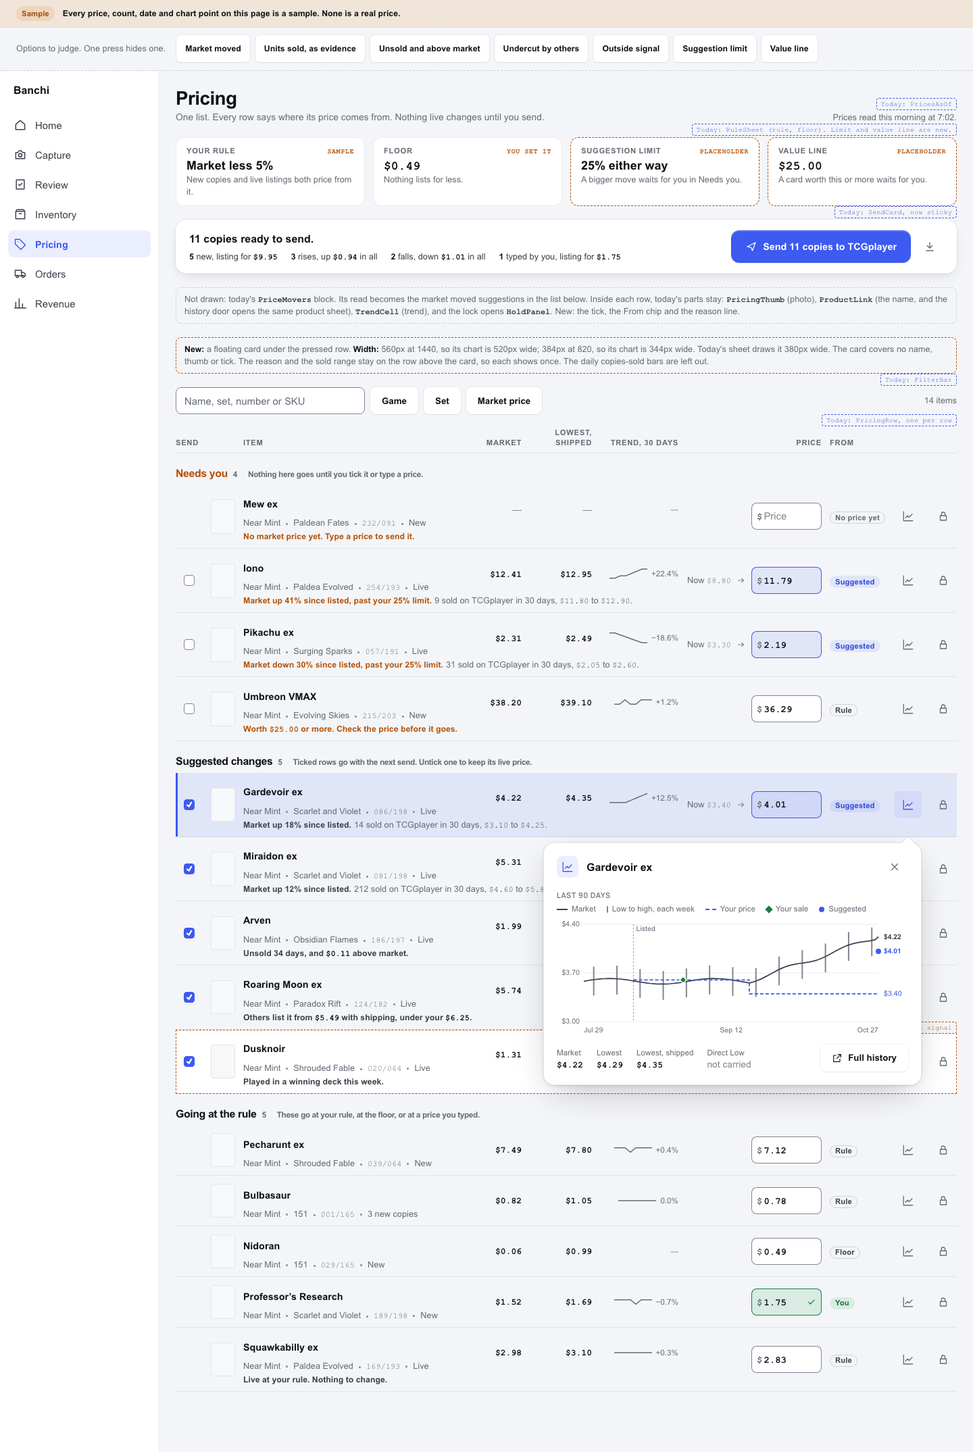
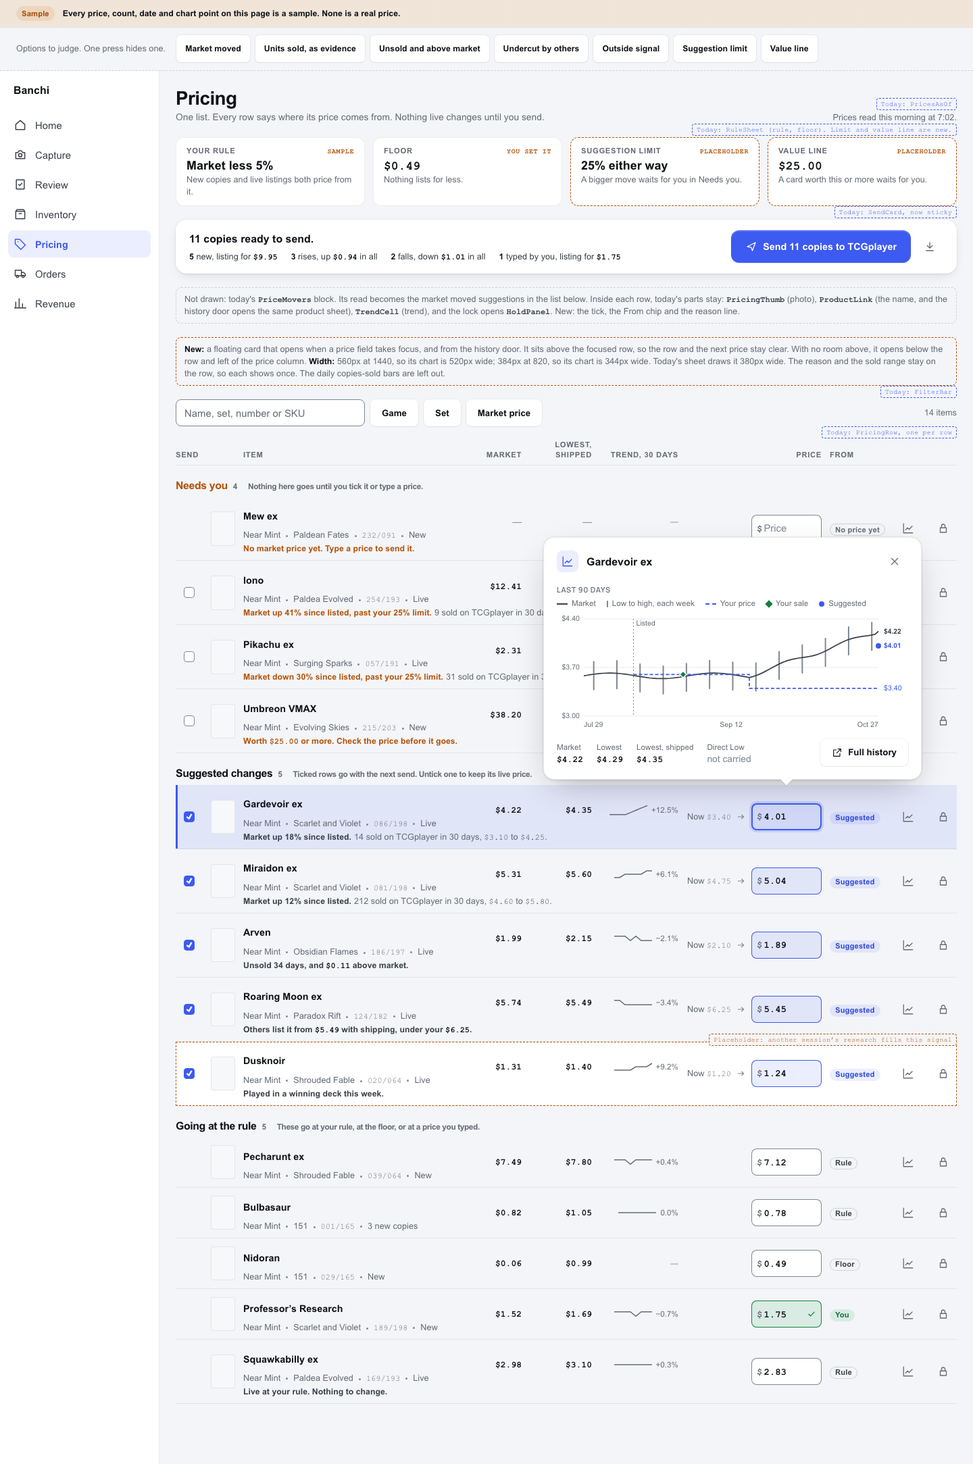
design: the floating history card opens on price focus
Default: Gardevoir ex's price field has focus, and the card sits above the
row, clear of the row and the next price, at 1440 and 820. state=top draws
the no-room case: the card opens below, left of the price column. fb=next
draws the other fallback. The notes name what the card covers, the focus
rules, and the Tab question for the owner.

Done: mockup, notes and six renders match the focus ruling; docs audit green.
Next: the owner rules on what Tab reaches between price fields (notes item 8).

diff --git a/docs/design/pricing-suggest/history-float.html b/docs/design/pricing-suggest/history-float.html
@@ -13,6 +13,9 @@
   /* Hash keys, joined by &:
        dark | light | t=dark | t=light   theme (default: prefers-color-scheme)
        f=1440 | f=820                    one frame, edge to edge (default: both, stacked)
+       state=top                         the focused row is the list's second row, with no room above
+                                         (default: Gardevoir ex's price field has focus, mid-list)
+       fb=next                           with no room above, the card opens under the next row instead
        hide=moved,unsold,...             options the owner culled (see the cull strip)
        notes=off                         hides the "Today:" component tags */
   const HASH = new Map(location.hash.slice(1).split('&').filter(Boolean).map((p) => {
@@ -173,7 +176,9 @@
   .field input { all: unset; width: 100%; min-width: 0; color: var(--bn-money); }
   .field input::placeholder { color: var(--bn-ink-4); font-family: var(--bn-font-ui); font-weight: 500; }
   .field svg { flex: none; width: 14px; height: 14px; color: var(--bn-ok); display: none; }
-  .field:focus-within { box-shadow: inset 0 0 0 2px var(--bn-line-focus); }
+  /* The kit's input focus look: an accent edge and a halo. It outranks the source tones below. */
+  .frame .row .field:focus-within, .frame .row .field.is-focus {
+    box-shadow: inset 0 0 0 2px var(--bn-accent), 0 0 0 3px var(--bn-accent-tint-2); }
   .row[data-src='Suggested'] .field { box-shadow: inset 0 0 0 1px var(--bn-accent); background: var(--bn-accent-tint); }
   /* A typed price: its own tone, and the field carries today's "your price" check. */
   .row[data-src='You'] .field { box-shadow: inset 0 0 0 1px var(--bn-ok); background: var(--bn-ok-tint); }
@@ -266,6 +271,8 @@
   .fl-caret { position: absolute; top: -6px; width: 12px; height: 12px; rotate: 45deg; background: var(--bn-surface);
               box-shadow: -1px -1px 0 var(--bn-line); }
   .fl[data-side='above'] .fl-caret { top: auto; bottom: -6px; box-shadow: 1px 1px 0 var(--bn-line); }
+  .fl-caret[hidden] { display: none; }
+  .fl-none { display: flex; align-items: center; color: var(--bn-ink-3); }
   .fl-head { display: flex; align-items: center; gap: var(--bn-3); }
   .fl-head .hx-name { flex: 1; font-family: var(--bn-font-display); font-size: var(--bn-fs-h3); font-weight: 800; }
   .fl-foot { display: flex; align-items: flex-end; justify-content: space-between; gap: var(--bn-4); }
@@ -533,35 +540,50 @@
       : 3.58 + (4.22 - 3.58) * ((d - 50) / 39) + (d === 89 ? 0 : 0.03 * Math.sin(d / 3)))
     const bars = [0, 1, 0, 0, 2, 0, 1, 0, 0, 1, 0, 3, 0, 1, 0, 0, 1, 0, 1, 0, 0, 1, 0, 0, 1, 0, 0, 0, 1, 0]
     return { m, bars, listed: 15, sale: [30, 3.60], ask: [[15, 3.60], [50, 3.40]], now: 3.40, sug: 4.01,
+             lo: 3.0, hi: 4.4, sp: [0.18, 0.22], facts: [4.22, 4.29, 4.35],
              dates: ['Jul 29', 'Sep 12', 'Oct 27'], sold: [bars.reduce((a, b) => a + b, 0), 3.10, 4.25] }
   })()
 
-  function hxChart(W, H) {
-    const GL = 40, GB = 18, w = W - GL - 44, h = H - GB - 8, lo = 3.0, hi = 4.4
+  /* Any other row's history: a sample of the same shape, from the row's own prices. Flat, then a move to
+     today's market. A live row was listed at its live price. A row with no market price has no history. */
+  function hxFor(r) {
+    if (r.name === 'Gardevoir ex') return HX
+    if (r.market === null) return null
+    const end = r.market, live = r.kind === 'live', start = live ? r.now : end, k = end / 4
+    const m = Array.from({ length: 90 }, (_, d) => d < 50 ? start + 0.01 * k * Math.sin(d / 5)
+      : start + (end - start) * ((d - 50) / 39) + (d === 89 ? 0 : 0.0075 * k * Math.sin(d / 3)))
+    const sp = [0.045 * end, 0.055 * end]
+    const vals = [...m.map((v) => v + sp[0]), ...m.map((v) => v - sp[1]), r.price, start]
+    return { m, sp, listed: live ? 15 : null, sale: live ? [30, start] : null, ask: live ? [[15, start], [50, start]] : null,
+             now: live ? r.now : null, sug: r.price, dates: HX.dates,
+             lo: Math.floor(Math.min(...vals) * 10) / 10, hi: Math.ceil(Math.max(...vals) * 10) / 10,
+             facts: [end, Math.round((end + r.low) * 50) / 100, r.low] }
+  }
+
+  function hxChart(W, H, D = HX) {
+    const GL = 40, GB = 18, w = W - GL - 44, h = H - GB - 8, lo = D.lo, hi = D.hi
     const x = (d) => GL + (d / 89) * w
     const y = (p) => 8 + ((hi - p) / (hi - lo)) * h
     const ticks = [hi, (hi + lo) / 2, lo].map((p) =>
       `<line class="hx-guide" x1="${GL}" x2="${GL + w}" y1="${y(p)}" y2="${y(p)}"/><text x="${GL - 6}" y="${y(p) + 3}" text-anchor="end">$${p.toFixed(2)}</text>`).join('')
-    const dates = HX.dates.map((t, i) => `<text x="${x(i * 44.5)}" y="${H - 2}" text-anchor="${['start', 'middle', 'end'][i]}">${t}</text>`).join('')
+    const dates = D.dates.map((t, i) => `<text x="${x(i * 44.5)}" y="${H - 2}" text-anchor="${['start', 'middle', 'end'][i]}">${t}</text>`).join('')
     let spread = ''
-    for (let d = 3; d < 90; d += 7) spread += `<line class="hx-spread" x1="${x(d)}" x2="${x(d)}" y1="${y(HX.m[d] + 0.18)}" y2="${y(HX.m[d] - 0.22)}"/>`
-    const market = HX.m.map((p, d) => `${x(d).toFixed(1)},${y(p).toFixed(1)}`).join(' ')
-    const [a0, a1] = HX.ask
-    const ask = `M${x(a0[0])} ${y(a0[1])} H${x(a1[0])} V${y(a1[1])} H${x(89)}`
-    const [sd, sp] = HX.sale
+    for (let d = 3; d < 90; d += 7) spread += `<line class="hx-spread" x1="${x(d)}" x2="${x(d)}" y1="${y(D.m[d] + D.sp[0])}" y2="${y(D.m[d] - D.sp[1])}"/>`
+    const market = D.m.map((p, d) => `${x(d).toFixed(1)},${y(p).toFixed(1)}`).join(' ')
     const dia = (cx, cy, r) => `M${cx} ${cy - r} L${cx + r} ${cy} L${cx} ${cy + r} L${cx - r} ${cy} Z`
+    const end = D.m[89], sugY = Math.abs(y(D.sug) - y(end)) < 11 ? y(end) + (D.sug < end ? 11 : -11) : y(D.sug)
     return `<svg class="hx-chart" width="${W}" height="${H}" viewBox="0 0 ${W} ${H}" role="img" aria-label="Market price over 90 days, with your prices, your sale and the suggestion">
       ${ticks}${dates}
-      <line class="hx-listed" x1="${x(HX.listed)}" x2="${x(HX.listed)}" y1="8" y2="${8 + h}"/>
-      <text x="${x(HX.listed) + 4}" y="18">Listed</text>
+      ${D.listed === null ? '' : `<line class="hx-listed" x1="${x(D.listed)}" x2="${x(D.listed)}" y1="8" y2="${8 + h}"/>
+      <text x="${x(D.listed) + 4}" y="18">Listed</text>`}
       ${spread}
       <polyline class="hx-market" points="${market}"/>
-      <path class="hx-asking" d="${ask}"/>
-      <path class="hx-sale" d="${dia(x(sd), y(sp), 5)}"/>
-      <circle class="hx-suggest" cx="${x(89)}" cy="${y(HX.sug)}" r="5"/>
-      <text class="hx-end" x="${x(89) + 8}" y="${y(HX.m[89]) + 3}">$${HX.m[89].toFixed(2)}</text>
-      <text class="hx-suggest-label" x="${x(89) + 8}" y="${y(HX.sug) + 3}">$${HX.sug.toFixed(2)}</text>
-      <text class="hx-ask-label" x="${x(89) + 8}" y="${y(HX.now) + 3}">$${HX.now.toFixed(2)}</text>
+      ${D.ask ? `<path class="hx-asking" d="M${x(D.ask[0][0])} ${y(D.ask[0][1])} H${x(D.ask[1][0])} V${y(D.ask[1][1])} H${x(89)}"/>` : ''}
+      ${D.sale ? `<path class="hx-sale" d="${dia(x(D.sale[0]), y(D.sale[1]), 5)}"/>` : ''}
+      <circle class="hx-suggest" cx="${x(89)}" cy="${y(D.sug)}" r="5"/>
+      <text class="hx-end" x="${x(89) + 8}" y="${y(end) + 3}">$${end.toFixed(2)}</text>
+      <text class="hx-suggest-label" x="${x(89) + 8}" y="${sugY + 3}">$${D.sug.toFixed(2)}</text>
+      ${D.now === null ? '' : `<text class="hx-ask-label" x="${x(89) + 8}" y="${y(D.now) + 3}">$${D.now.toFixed(2)}</text>`}
     </svg>`
   }
 
@@ -569,8 +591,8 @@
     <span><i class="hx-sw ask"></i>Your price</span><span><i class="hx-sw sale"></i>Your sale</span><span><i class="hx-sw sug"></i>Suggested</span></p>`
   const hxSold = () => `<p class="hx-sold">${HX.sold[0]} sold in 30 days, ${$(HX.sold[1])} to ${$(HX.sold[2])}.</p>`
   const hxWhy = () => `<p class="hx-why">Market up 18% since listed. Now ${$(HX.now)}, suggested ${$(HX.sug)}.</p>`
-  const hxFacts = () => `<dl class="hx-facts"><div><dt>Market</dt><dd>${$(4.22)}</dd></div><div><dt>Lowest</dt><dd>${$(4.29)}</dd></div>
-    <div><dt>Lowest, shipped</dt><dd>${$(4.35)}</dd></div><div><dt>Direct Low</dt><dd class="dash">not carried</dd></div></dl>`
+  const hxFacts = (F = HX.facts) => `<dl class="hx-facts"><div><dt>Market</dt><dd>${$(F[0])}</dd></div><div><dt>Lowest</dt><dd>${$(F[1])}</dd></div>
+    <div><dt>Lowest, shipped</dt><dd>${$(F[2])}</dd></div><div><dt>Direct Low</dt><dd class="dash">not carried</dd></div></dl>`
   function hxBars(W) {
     const n = 30, H = 36, slot = W / n
     const v = HX.bars
@@ -607,50 +629,99 @@
     </aside>`)
   }
 
-  /* Option 4: the history door opens a card over the list, under the pressed row. No scrim; the list stays pressable. */
+  /* Option 4, as ruled: a card floats over the list, with no scrim. A price field taking focus opens it for that
+     row, and so does the row's history door. It sits above the row, over the rows before it. With no room above,
+     it opens below the row and left of the price column (fb=next: below the next row instead). */
   function decorate(f, w) {
-    const narrow = w === '820'
-    f.querySelector('.gone-note').insertAdjacentHTML('afterend', `<p class="press-note"><b>New:</b> a floating card under the pressed row.
+    const narrow = w === '820', GAP = 8, W = narrow ? 384 : 560
+    f.querySelector('.gone-note').insertAdjacentHTML('afterend', `<p class="press-note"><b>New:</b> a floating card that opens when a price field takes focus, and from the history door.
+      It sits above the focused row, so the row and the next price stay clear. With no room above, it opens below the row and left of the price column.
       <b>Width:</b> 560px at 1440, so its chart is 520px wide; 384px at 820, so its chart is 344px wide. Today's sheet draws it 380px wide.
-      The card covers no name, thumb or tick. The reason and the sold range stay on the row above the card, so each shows once. The daily copies-sold bars are left out.</p>`)
-    f.insertAdjacentHTML('beforeend', `<section class="fl mark" role="dialog" aria-label="Price history for Gardevoir ex" tabindex="-1" data-fl hidden>
+      The reason and the sold range stay on the row, so each shows once. The daily copies-sold bars are left out.</p>`)
+    f.insertAdjacentHTML('beforeend', `<section class="fl mark" role="dialog" tabindex="-1" data-fl hidden>
       <span class="fl-caret" aria-hidden="true"></span>
-      <header class="fl-head"><span class="bn-overlay-icon">${svg('history', 18)}</span><p class="hx-name">Gardevoir ex</p>
+      <header class="fl-head"><span class="bn-overlay-icon">${svg('history', 18)}</span><p class="hx-name" data-fl-name></p>
         <button class="bn-icon-btn iconb" type="button" aria-label="Close" data-fl-close>${svg('close', 18)}</button></header>
-      <div class="hx-block"><h3 class="hx-h">Last 90 days</h3>${hxLegend()}${hxChart(narrow ? 344 : 520, 170)}</div>
-      <div class="fl-foot">${hxFacts()}<button class="bn-btn" type="button">${svg('external', 16)}Full history</button></div>
+      <div class="hx-block" data-fl-chart></div>
+      <div class="fl-foot"><span data-fl-facts></span><button class="bn-btn" type="button">${svg('external', 16)}Full history</button></div>
     </section>`)
-    const card = f.querySelector('[data-fl]')
+    const card = f.querySelector('[data-fl]'), caret = card.querySelector('.fl-caret')
+    const rowsOf = () => [...f.querySelectorAll('.row')].filter((r) => r.offsetParent)
     const doorOf = (row) => row.querySelector('[aria-label^="Price history"]')
-    let open = null
-    /* Anchored under the row, or above it when the viewport has no room below. Right edge on the row's history door.
-       Focus moves into the card on open, and back to the door on close. */
-    const place = (row) => {
-      const was = open
-      if (was) { delete was.dataset.picked; delete doorOf(was).dataset.on }
-      open = row
-      card.hidden = !row
-      if (!row) { if (was) doorOf(was).focus({ preventScroll: true }); return }
-      row.dataset.picked = ''
-      const door = doorOf(row)
-      door.dataset.on = ''
-      const fr = f.getBoundingClientRect(), rr = row.getBoundingClientRect(), dr = door.getBoundingClientRect()
-      const below = rr.bottom + 8 + card.offsetHeight <= innerHeight
-      card.dataset.side = below ? 'below' : 'above'
-      card.style.top = `${(below ? rr.bottom + 8 : rr.top - 8 - card.offsetHeight) - fr.top}px`
-      card.style.left = `${dr.right - card.offsetWidth - fr.left}px`
-      card.querySelector('.fl-caret').style.left = `${card.offsetWidth - dr.width / 2 - 6}px`
-      card.focus({ preventScroll: true })
+    const fieldOf = (row) => row.querySelector('.field')
+    const dataOf = (row) => ROWS.find((r) => r.name === row.querySelector('.name').textContent)
+    const fill = (row, width) => {
+      const r = dataOf(row), D = hxFor(r)
+      card.style.width = `${width}px`
+      card.setAttribute('aria-label', `Price history for ${r.name}`)
+      card.querySelector('[data-fl-name]').textContent = r.name
+      card.querySelector('[data-fl-chart]').innerHTML = `<h3 class="hx-h">Last 90 days</h3>` + (D
+        ? hxLegend() + hxChart(width - 40, 170, D)
+        : `<p class="fl-none" style="height:${170 + 24}px">No price history yet. It starts with the first market price.</p>`)
+      card.querySelector('[data-fl-facts]').innerHTML = D ? hxFacts(D.facts) : ''
     }
-    const first = [...f.querySelectorAll('.row')].find((r) => r.querySelector('.name').textContent === 'Gardevoir ex')
-    document.fonts.ready.then(() => place(first))
-    addEventListener('resize', () => open && place(open))
-    f.addEventListener('click', (e) => {
-      const door = e.target.closest('[aria-label^="Price history"]')
-      if (door) return place(door.closest('.row'))
-      if (e.target.closest('[data-fl-close]') || !e.target.closest('[data-fl]')) place(null)
+    let open = null, mode = null
+    const place = (row, how = mode) => {
+      const was = open
+      if (was) { delete was.dataset.picked; delete doorOf(was).dataset.on; fieldOf(was).classList.remove('is-focus') }
+      open = row; mode = row ? how : null
+      card.hidden = !row
+      if (!row) return
+      row.dataset.picked = ''
+      if (how === 'door') doorOf(row).dataset.on = ''
+      else fieldOf(row).classList.add('is-focus')
+      const fr = f.getBoundingClientRect(), rr = row.getBoundingClientRect(), dr = doorOf(row).getBoundingClientRect()
+      const pr = row.querySelector('.price').getBoundingClientRect(), fd = fieldOf(row).getBoundingClientRect()
+      /* Room above ends at the list's column captions, or under the sticky send bar once that bar has stuck. */
+      const ceiling = Math.max(f.querySelector('.caption').getBoundingClientRect().bottom, f.querySelector('.send').getBoundingClientRect().bottom)
+      fill(row, W)
+      let side = rr.top - GAP - card.offsetHeight >= ceiling ? 'above' : 'below', top, left, width = W
+      if (side === 'above') { top = rr.top - GAP - card.offsetHeight; left = dr.right - W }
+      else if (HASH.get('fb') === 'next') {
+        const next = rowsOf()[rowsOf().indexOf(row) + 1] || row
+        top = next.getBoundingClientRect().bottom + GAP; left = dr.right - W
+      } else {
+        /* Below, and clear of the price column. Where that leaves less than the card's width, the card starts
+           after the tick column and narrows. */
+        const tick = row.querySelector('.tick, :scope > span:first-child').getBoundingClientRect()
+        left = Math.max(pr.left - GAP - W, tick.right + GAP)
+        width = pr.left - GAP - left
+        if (width !== W) fill(row, width)
+        top = rr.bottom + GAP
+      }
+      card.dataset.side = side
+      card.style.top = `${top - fr.top}px`
+      card.style.left = `${left - fr.left}px`
+      /* The caret points at what opened the card, when that sits over the card's span. */
+      const at = how === 'door' ? dr.left + dr.width / 2 : fd.left + fd.width / 2
+      caret.hidden = at < left + 16 || at > left + width - 16
+      caret.style.left = `${at - left - 6}px`
+      if (how === 'door') card.focus({ preventScroll: true })
+    }
+    /* Closing: focus goes back to the door the card was opened from, or stays in the field. */
+    const close = () => {
+      const was = open, how = mode
+      place(null)
+      if (was && how === 'door') doorOf(was).focus({ preventScroll: true })
+    }
+    const startName = HASH.get('state') === 'top' ? 'Iono' : 'Gardevoir ex'
+    document.fonts.ready.then(() => place(rowsOf().find((r) => r.querySelector('.name').textContent === startName), 'focus'))
+    f.replace = () => { if (open) open.offsetParent ? place(open) : place(null) }
+    addEventListener('resize', f.replace)
+    f.addEventListener('focusin', (e) => {
+      if (e.target.closest('.field')) place(e.target.closest('.row'), 'focus')
     })
-    addEventListener('keydown', (e) => { if (e.key === 'Escape' && open) place(null) })
+    f.addEventListener('focusout', (e) => {
+      const to = e.relatedTarget
+      if (mode === 'focus' && !(to && (to.closest('.field') || to.closest('[data-fl]')))) place(null)
+    })
+    f.addEventListener('click', (e) => {
+      const door = e.target.closest('.row [aria-label^="Price history"]')
+      if (door) return place(door.closest('.row'), 'door')
+      if (e.target.closest('[data-fl-close]')) return close()
+      if (open && !e.target.closest('[data-fl]') && !e.target.closest('.field')) place(null)
+    })
+    f.addEventListener('keydown', (e) => { if (e.key === 'Escape' && open) close() })
   }
 
   /* ---- build the frames ---- */
@@ -689,6 +760,7 @@
     hidden.has(k) ? hidden.delete(k) : hidden.add(k)
     document.querySelectorAll(`[data-hide="${k}"]`).forEach((el) => el.setAttribute('aria-pressed', hidden.has(k)))
     setHash(); all()
+    document.querySelectorAll('.frame').forEach((f) => f.replace())
   })
 </script>
 </body>

diff --git a/docs/design/pricing-suggest/history-notes.md b/docs/design/pricing-suggest/history-notes.md
@@ -3,7 +3,8 @@
 Mockups in this folder: `history-sheet.html`, `history-inline.html`, `history-panel.html`,
 `history-float.html`. Each one draws the one list from `list.html` with Gardevoir ex's history
 open. All chart data are samples.
-The owner picks one option. Owner word: yes. Open: which option?
+The owner picked option 4, the floating card, and asked that it open when a price field takes
+focus (`docs/specs/pricing-suggest.md` section 9c). Items 5 to 8 draw that ruling.
 
 All four draw the same chart: today's `ProductChart` (market line, the low-to-high spread each
 week, the owner's sales as diamonds), with two new marks: the owner's own asking price as a
@@ -37,21 +38,62 @@ row. The row's 30-day trend is read off the chart's market line, so the two agre
      draws.
    - The Up and Down arrows move the selection. A new key binding must go in `SHORTCUTS` before
      it is done.
-4. **A card floats over the list** (`history-float.html`). The history door opens a card under
-   its row, with no scrim. Its right edge lines up with the door. With no room below the row, it
-   opens above. The card is 560px at 1440 and 384px at 820, so it covers no name, thumb or tick
-   at either width. Its chart is 520px wide at 1440 and 344px at 820, against 380px in today's
-   sheet. It shows the chart and the four prices. The reason and the sold range stay on the row
-   above it, so each shows once.
-   - Gain: at 1440, the widest chart of the four. The pressed row, with its price, tick, reason
-     and sold range, stays in view above the card, and the rest of the list stays pressable.
-   - Loss: it covers part of the four rows under it while it is open. At 1440 that is their
-     Lowest, Trend, Price and From columns, their history doors and locks, and the end of their
-     reason lines. At 820 it is their prices, doors and locks, and the ends of their set, price
-     and reason lines. At 820 its chart is smaller than the sheet's. The daily copies-sold bars do
-     not fit.
-   - Focus moves into the card on open, and back to the history door on close. It closes on Esc,
-     on a press outside it, or on its close button. A press on another row's history door moves it
-     to that row.
+4. **A card floats over the list** (`history-float.html`). Ruled. A price field taking focus
+   opens a card for its row, with no scrim, and so does the row's history door. The card is 560px
+   at 1440 and 384px at 820. Its chart is 520px wide at 1440 and 344px at 820, against 380px in
+   today's sheet. It shows the chart and the four prices. The reason and the sold range stay on
+   the row, so each shows once. Links: `#f=1440`, `#f=820`, `#t=dark`, `#state=top`, `#fb=next`.
+   - Gain: at 1440, the widest chart of the four. The focused row, with its price, tick, reason
+     and sold range, stays in view, and the rest of the list stays pressable.
+   - Loss: at 820 its chart is smaller than the sheet's. The daily copies-sold bars do not fit.
    - How it complies with D313 (nothing moves unless the person moved it): nothing in the list
-     moves. The card lies over the list, and only a press opens, moves or closes it.
+     moves. The card lies over the list. Only the person's own focus or press opens, moves or
+     closes it.
+
+5. **Above the focused row** (default state). The card sits 8px above the focused row, over the
+   rows before it. Its right edge lines up with the row's history door, and its caret points at
+   the focused price field. The field shows the kit's input focus ring. The focused row and the
+   next row's price field (Miraidon ex) are fully clear at 1440 and 820. "Room above" ends at the
+   list's column captions, or under the sticky send bar once that bar has stuck.
+   - Gain: Tab down the list and the card follows, with the next price always in view.
+   - Loss: it covers the rows already passed. In this sample order those are the Needs you rows
+     (Mew ex to Umbreon VMAX), which are not priced yet. At 1440 it covers their Price, From,
+     door and lock columns. At 820 it covers their prices, doors and locks, and the ends of their
+     meta and reason lines.
+   - Heading: at 1440 the card misses the "Suggested changes" heading text. At 820 it covers the
+     right end of its lede, "Ticked rows go with the next send...". The title and count stay clear.
+   - Pick: this, as ruled.
+
+6. **No room above** (`#state=top`, Iono, the list's second row). The card opens 8px below the
+   row and ends 8px left of the price column, so every price field stays clear.
+   - At 1440 it is the full 560px. It covers the ends of the item column (long names such as
+     "Umbreon VMAX", meta and reason lines), and the Market, Lowest and Trend columns of the next
+     four rows, and the "Suggested changes" lede.
+   - At 820 the price column starts 428px into the list, so the card starts after the tick column
+     and narrows to 372px. It covers the thumbs, names, meta and reason lines of the next four
+     rows (Pikachu ex to Miraidon ex), and the "Suggested changes" heading. Ticks and prices stay
+     clear.
+   - Fallback drawn behind `#fb=next`: the card opens below the next row instead, right edge on
+     the door. Gain: the next row stays whole, name and price. Loss: it covers the prices of the
+     rows after it, which breaks "clear of the price column".
+   - Pick: the ruled fallback, clear of the price column. When the owner tabs on, the card moves
+     to the next row, so the name the owner needs is always the focused row's, and that stays clear.
+
+7. **Focus.** A card opened by focus takes no focus, so focus stays in the price field. A card
+   opened by the history door takes focus, and gives it back to the door when it closes. Esc
+   closes it, and focus stays where it was: in the field, or back on the door. It closes when
+   focus leaves the list's price fields for anything but the card. A press outside it closes it.
+   A press on another price field or door moves it to that row.
+
+8. **What Tab reaches next.** Section 9c says Tab goes on to the next price. Today's row puts the
+   history door, the lock, the next row's tick and its name between two price fields, so native
+   Tab leaves the price fields, and under item 7 the card closes and opens again at each price.
+   Owner grant: yes.
+   - a. Native Tab, as today. Gain: no new key, every control stays on Tab. Loss: the card
+     closes for four stops between prices.
+   - b. The card stays open while focus is anywhere in a row of the list, and follows that row.
+     It closes when focus leaves the list. Gain: no new key, no flicker. Loss: it changes 9c's
+     close rule.
+   - c. Enter in a price field moves focus to the next price field. Gain: one key, price to
+     price. Loss: a new key binding, which must go in `SHORTCUTS`.
+   - Pick: b.
